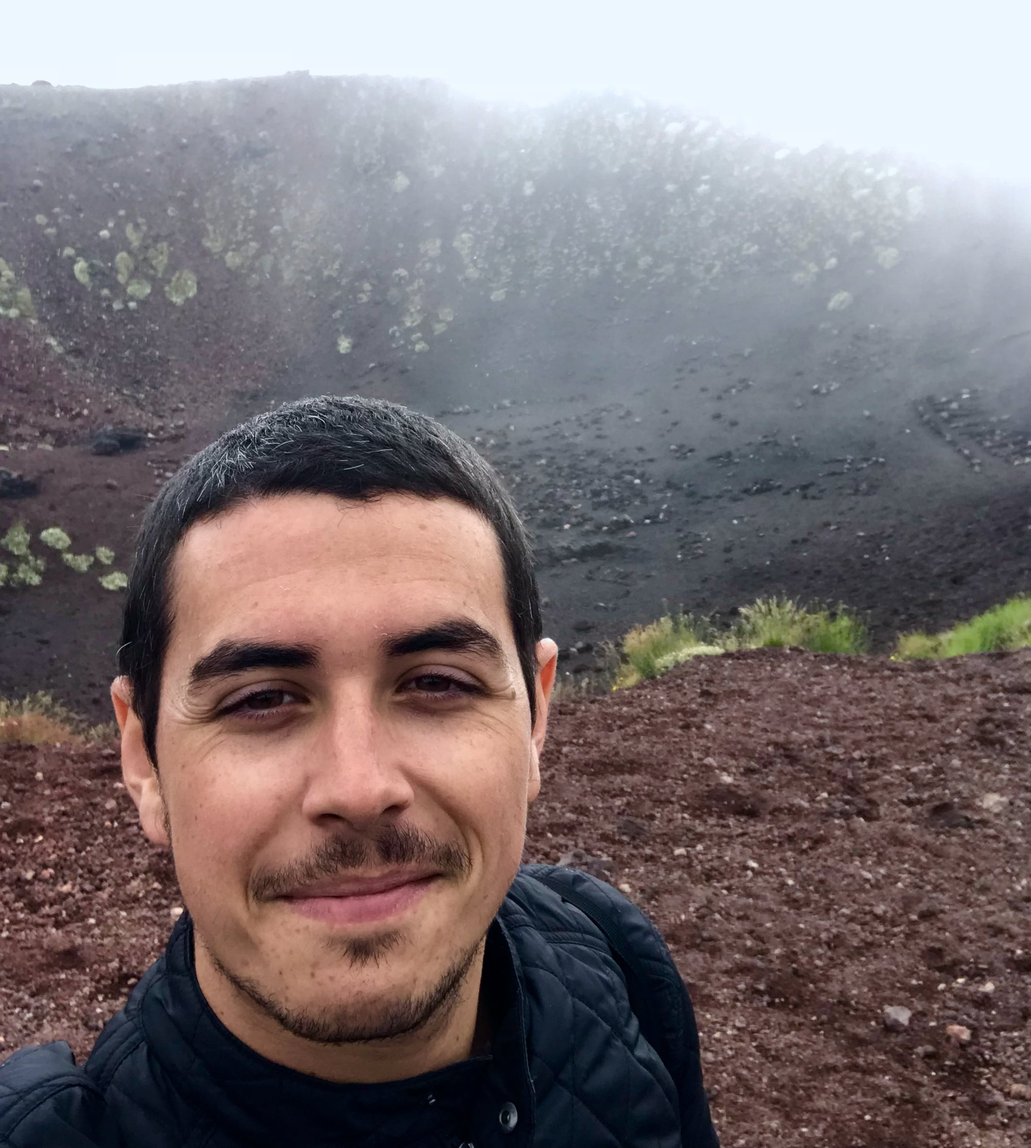
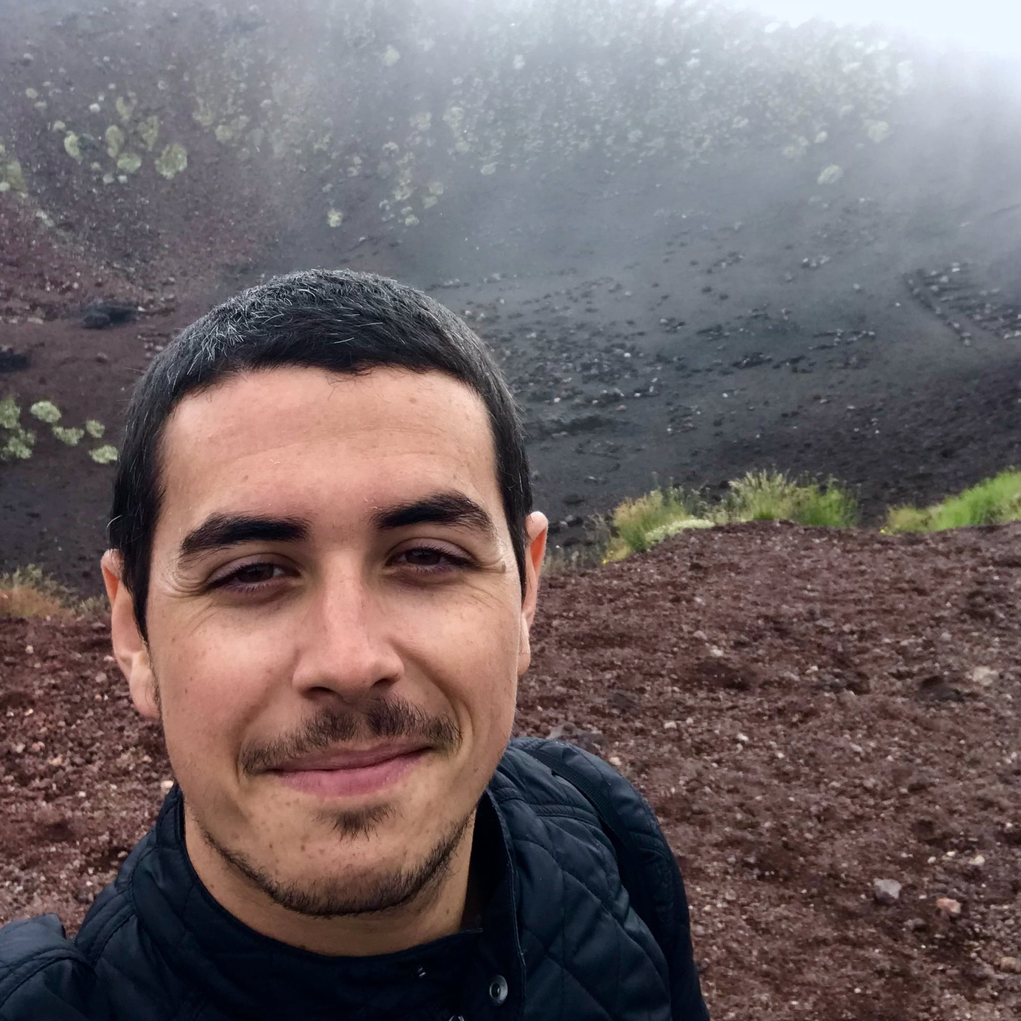
changed profile image

diff --git a/css/main.css b/css/main.css
@@ -49,8 +49,8 @@ pre.highlight code,
 .user-image {
   margin-bottom: 1.2em;
   position: relative;
-  width: 100px;
-  height: 100px;
+  width: 300px;
+  height: 300px;
   border: 2px solid #fff;
   border-radius:100%;
 }
